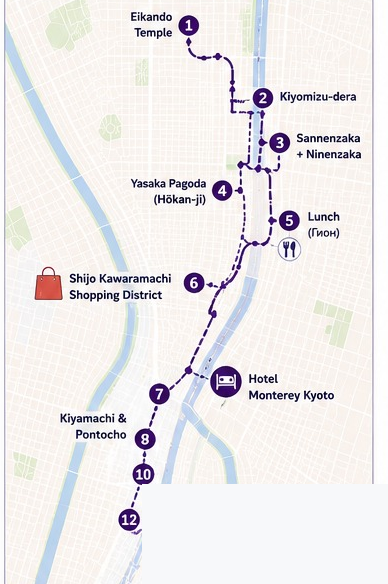
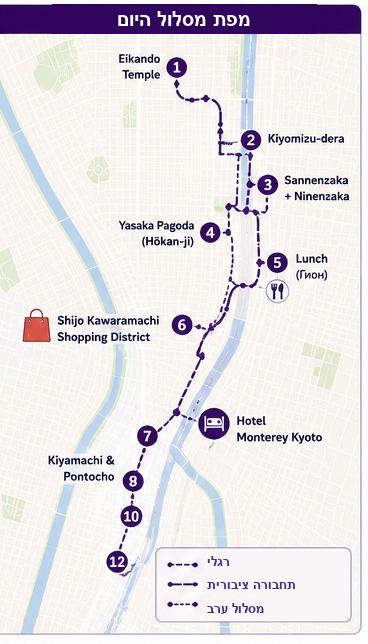
Day 19: original Hebrew route map with legend, start-end times, evening section divider, public-transport card

diff --git a/index.html b/index.html
@@ -105,7 +105,13 @@
     .attraction-card-tips{font-size:12px;background:#f8fafc;border:1px solid #e2e8f0;border-radius:10px;padding:10px;color:#475569;line-height:1.5;margin-bottom:10px}
     .attraction-card-hours{font-size:12px;font-weight:700;color:#64748b;margin-bottom:10px}
     .item{display:grid;grid-template-columns:58px 1fr;gap:10px;align-items:stretch}
-    .time{font-size:13px;color:var(--muted);font-weight:800;padding-top:14px;text-align:center}
+    .time{font-size:13px;color:var(--muted);font-weight:800;padding-top:14px;text-align:center;direction:ltr;line-height:1.35}
+    .tl-section{background:linear-gradient(135deg,#4c1d95,#6d28d9);color:#fff;font-weight:900;text-align:center;padding:10px 14px;border-radius:14px;font-size:14px;box-shadow:var(--shadow);margin:4px 0}
+    .transit-leg{background:var(--card);border:1px solid var(--line);border-radius:16px;padding:12px 14px;box-shadow:var(--shadow);margin-bottom:10px}
+    .transit-route{font-weight:800;font-size:14px;color:#1e293b;margin-bottom:4px}
+    .transit-note{font-size:12px;color:var(--muted);margin-bottom:8px}
+    .transit-meta{display:flex;flex-wrap:wrap;gap:8px}
+    .transit-meta span{background:#eef2f7;border:1px solid #d8e0ea;border-radius:999px;padding:3px 10px;font-size:12px;font-weight:700;color:#475569}
     .event{background:var(--card);border-radius:20px;padding:13px;box-shadow:var(--shadow);
       border:1px solid var(--line)}
     .event-row{display:flex;gap:12px;align-items:center}
@@ -477,6 +483,8 @@
 
       <div class="section-title">המסלול שלנו</div>
       <div class="timeline" id="timeline"></div>
+
+      <div id="dayTransitCard" class="hidden"></div>
 
       <div class="section-title">המלון הערב</div>
       <div class="event hotel">
@@ -922,12 +930,20 @@ const citiesByDay = {
 // Dedicated clean route maps per day (src + aspect-ratio of the image)
 const routeMapsByDay = {
   '14': { src: 'assets/maps/day14_walking_map.png', ratio: '338 / 261' },
-  '19': { src: 'assets/maps/day19_route_map.png', ratio: '388 / 584', legend: true }
+  '19': { src: 'assets/maps/day19_route_map.png', ratio: '368 / 644', legend: false }
 };
 
 // Short Hebrew theme shown as the banner subtitle per day (fallback: route text)
 const themesByDay = {
   '19': 'מקדשים, מסורת, שופינג וערב של ברים'
+};
+
+// Public-transport legs shown on the route page per day
+const transitByDay = {
+  '19': [
+    { from: 'Eikandō Temple', to: 'Kiyomizu-dera', note: 'אחרי Eikandō אפשר ללכת רגלי או במונית/אוטובוס', line: 'אוטובוס 5 או 100', time: '~10–15 דק׳', cost: '¥230' },
+    { from: 'Shijo Kawaramachi', to: 'Hotel Monterey Kyoto', note: 'חזרה למלון', line: 'רכבת: Hankyu Kyoto Line · Kawaramachi → Karasuma', time: '~5 דק׳', cost: '¥140' }
+  ]
 };
 
 function renderMainPage(){
@@ -1049,18 +1065,19 @@ const data = {
     ["18:00","חזרה למלון","מנוחה, מקלחת, החלפת בגדים והשארת הקניות בחדר.","https://images.unsplash.com/photo-1566073771259-6a8506099945?auto=format&fit=crop&w=300&q=80","Kyoto Hotel"]
   ]},
   '19': { title:"קיוטו – מקדשים, שופינג וברים", route:"Eikandō → Kiyomizu-dera → Gion → Shijo → Pontocho", events:[
-    ["09:00","Eikandō Temple (永観堂)","מקדש בודהיסטי מהיפים בקיוטו, מפורסם בעלי השלכת האדומים","assets/attractions/day19/eikando.jpg","Eikando Temple Kyoto"],
-    ["10:15","Kiyomizu-dera","מקדש ההרים עם מרפסת העץ והנוף לקיוטו","assets/attractions/day19/kiyomizu.jpg","Kiyomizu-dera"],
-    ["10:45","Sannenzaka + Ninenzaka","סמטאות מדרגות עתיקות עם חנויות ובתי תה","assets/attractions/day19/sannenzaka.jpg","Sannenzaka Ninenzaka Kyoto"],
-    ["11:45","Yasaka Pagoda (Hōkan-ji)","פגודה בת חמש קומות בלב גיון","assets/attractions/day19/yasaka.jpg","Yasaka Pagoda Hokanji"],
-    ["12:15","ארוחת צהריים","הפסקת אוכל בגיון או בשיג'ו קוואראמאצ'י","assets/attractions/day19/lunch.jpg","Gion Kyoto"],
-    ["13:30","Shijo Kawaramachi","רובע הקניות המרכזי של קיוטו","assets/attractions/day19/shijo.jpg","Shijo Kawaramachi Kyoto"],
+    ["09:00<br>10:00","Eikandō Temple (永観堂)","מקדש בודהיסטי מהיפים בקיוטו, מפורסם בעלי השלכת האדומים","assets/attractions/day19/eikando.jpg","Eikando Temple Kyoto"],
+    ["10:15<br>10:45","Kiyomizu-dera","מקדש ההרים עם מרפסת העץ והנוף לקיוטו","assets/attractions/day19/kiyomizu.jpg","Kiyomizu-dera"],
+    ["10:45<br>11:45","Sannenzaka + Ninenzaka","סמטאות מדרגות עתיקות עם חנויות ובתי תה","assets/attractions/day19/sannenzaka.jpg","Sannenzaka Ninenzaka Kyoto"],
+    ["11:45<br>12:05","Yasaka Pagoda (Hōkan-ji)","פגודה בת חמש קומות בלב גיון","assets/attractions/day19/yasaka.jpg","Yasaka Pagoda Hokanji"],
+    ["12:15<br>13:15","ארוחת צהריים","הפסקת אוכל בגיון או בשיג'ו קוואראמאצ'י","assets/attractions/day19/lunch.jpg","Gion Kyoto"],
+    ["13:30<br>17:30","Shijo Kawaramachi","רובע הקניות המרכזי של קיוטו","assets/attractions/day19/shijo.jpg","Shijo Kawaramachi Kyoto"],
     ["18:00","חזרה למלון","מנוחה קצרה לפני יציאה לערב","assets/attractions/day19/hotel.jpg","Hotel Monterey Kyoto"],
-    ["19:00","Kiyamachi & Pontocho","טיול ערב בסמטאות לאורך תעלת המים","assets/attractions/day19/kiyamachi.jpg","Pontocho Kyoto"],
-    ["19:30","L'Escamoteur Bar","בר קוקטיילים אווירתי בסגנון קסמים","assets/attractions/day19/escamoteur.jpg","L'Escamoteur Bar Kyoto"],
-    ["20:30","ארוחת ערב","ארוחה בפונטוצ'ו או קיאמאצ'י","assets/attractions/day19/dinner.jpg","Pontocho Kyoto"],
-    ["21:10","Turquoise Bar","בר קוקטיילים לסיום הערב","assets/attractions/day19/turquoise.jpg","Turquoise Bar Kyoto"],
-    ["22:15","חזרה למלון","סיום יום 6 בקיוטו","assets/attractions/day19/hotel.jpg","Hotel Monterey Kyoto"]
+    ["","__SECTION__","🍸 ערב: ברים וארוחת ערב","",""],
+    ["19:00<br>19:30","Kiyamachi & Pontocho","טיול ערב בסמטאות לאורך תעלת המים","assets/attractions/day19/kiyamachi.jpg","Pontocho Kyoto"],
+    ["19:30<br>20:30","L'Escamoteur Bar","בר קוקטיילים אווירתי בסגנון קסמים","assets/attractions/day19/escamoteur.jpg","L'Escamoteur Bar Kyoto"],
+    ["20:30<br>21:10","ארוחת ערב","ארוחה בפונטוצ'ו או קיאמאצ'י","assets/attractions/day19/dinner.jpg","Pontocho Kyoto"],
+    ["21:10<br>22:15","Turquoise Bar","בר קוקטיילים לסיום הערב","assets/attractions/day19/turquoise.jpg","Turquoise Bar Kyoto"],
+    ["22:15~","חזרה למלון","סיום יום 6 בקיוטו","assets/attractions/day19/hotel.jpg","Hotel Monterey Kyoto"]
   ]},
   '20': { title:"נארה יום מלא", route:"Kyoto → Nara → Kyoto", events:[
     ["09:00","נסיעה לנארה","JR Nara Line מקיוטו","https://images.unsplash.com/photo-1545569341-9eb8b30979d9?auto=format&fit=crop&w=300&q=80","Nara"],
@@ -2503,6 +2520,7 @@ function render(day){
     // Default timeline for other days
     tl.className = 'timeline';
     data[day].events.forEach(e=>{
+      if (e[1] === '__SECTION__') { tl.innerHTML += `<div class="tl-section">${e[2]}</div>`; return; }
       const eventDescription = appendLiveFlightInfo(day, e[2]);
       const link='https://www.google.com/maps/search/?api=1&query='+encodeURIComponent(e[4]);
       tl.innerHTML += `<div class="item"><div class="time">${e[0]}</div><div class="event">
@@ -2510,6 +2528,23 @@ function render(day){
         <div class="actions"><a class="btn primary" target="_blank" href="${link}">📍 נווט עכשיו</a>
         <button class="btn ghost" onclick="alert('סומן כבוצע ✓')">✓ סיימנו</button></div></div></div>`;
     });
+  }
+
+  const transitCard = document.getElementById('dayTransitCard');
+  if (transitCard) {
+    const legs = transitByDay[day];
+    if (legs && legs.length) {
+      transitCard.innerHTML = '<div class="section-title">תחבורה ציבורית</div>' + legs.map(l =>
+        `<div class="transit-leg">
+          <div class="transit-route">🚌 ${l.from} → ${l.to}</div>
+          ${l.note ? `<div class="transit-note">${l.note}</div>` : ''}
+          <div class="transit-meta"><span>${l.line}</span><span>⏱ ${l.time}</span><span>💴 ${l.cost}</span></div>
+        </div>`).join('');
+      transitCard.classList.remove('hidden');
+    } else {
+      transitCard.innerHTML = '';
+      transitCard.classList.add('hidden');
+    }
   }
   renderUploads();
 }

diff --git a/_build_day19_map.py b/_build_day19_map.py
@@ -1,0 +1,47 @@
+"""Build day-19 route map: crop full original map (title + legend) and translate the
+Russian title/legend to Hebrew (RTL), keeping English place labels and (Гион) as-is."""
+from PIL import Image, ImageDraw, ImageFont
+
+SRC = "updated_days/19_11_2026.jpeg"
+OUT = "assets/maps/day19_route_map.png"
+
+im = Image.open(SRC).convert("RGB")
+# full map card: title bar + map + legend
+card = im.crop((648, 116, 1016, 760))  # 368 x 644
+d = ImageDraw.Draw(card)
+
+
+def font(sz):
+    for p in (r"C:\Windows\Fonts\arialbd.ttf", r"C:\Windows\Fonts\arial.ttf"):
+        try:
+            return ImageFont.truetype(p, sz)
+        except OSError:
+            continue
+    return ImageFont.load_default()
+
+
+def he(s):
+    # PIL draws LTR; reverse pure-Hebrew logical string for correct RTL display
+    return s[::-1]
+
+
+PURPLE = (48, 4, 93)
+LEG_BG = (250, 246, 247)
+LEG_TX = (60, 48, 130)
+
+# --- title bar: paint over Russian, write Hebrew centered ---
+d.rectangle([52, 4, 316, 33], fill=PURPLE)
+d.text((184, 19), he("מפת מסלול היום"), font=font(20), fill=(255, 255, 255), anchor="mm")
+
+# --- legend: paint over the three Russian words, write Hebrew (symbols kept) ---
+legend = [
+    (561, "רגלי"),
+    (584, "תחבורה ציבורית"),
+    (608, "מסלול ערב"),
+]
+for y, txt in legend:
+    d.rectangle([203, y - 11, 346, y + 11], fill=LEG_BG)
+    d.text((207, y), he(txt), font=font(13), fill=LEG_TX, anchor="lm")
+
+card.save(OUT)
+print("saved", OUT, card.size)
